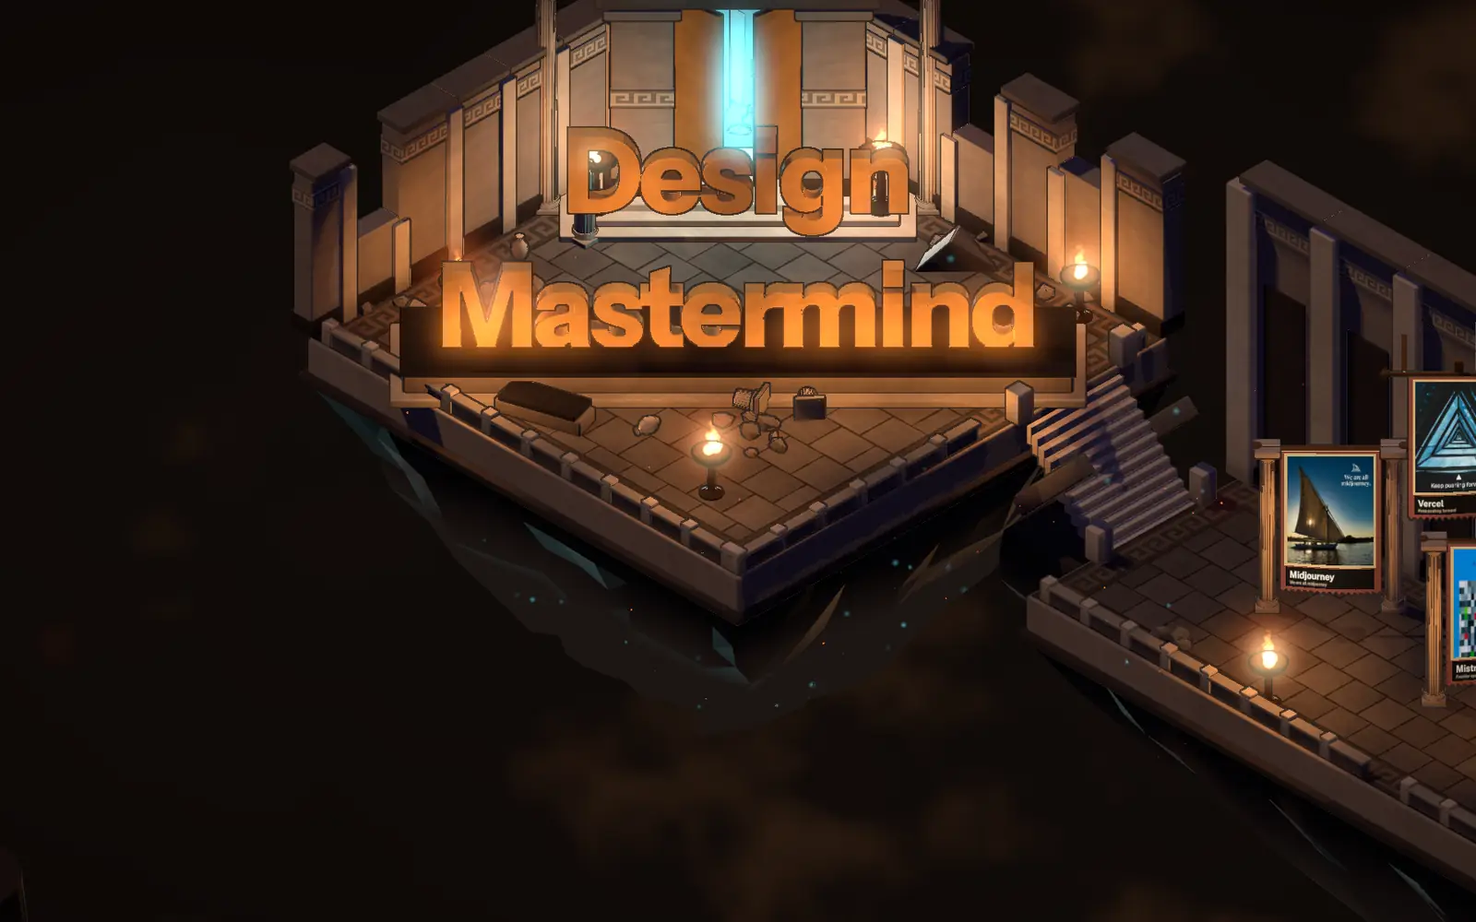
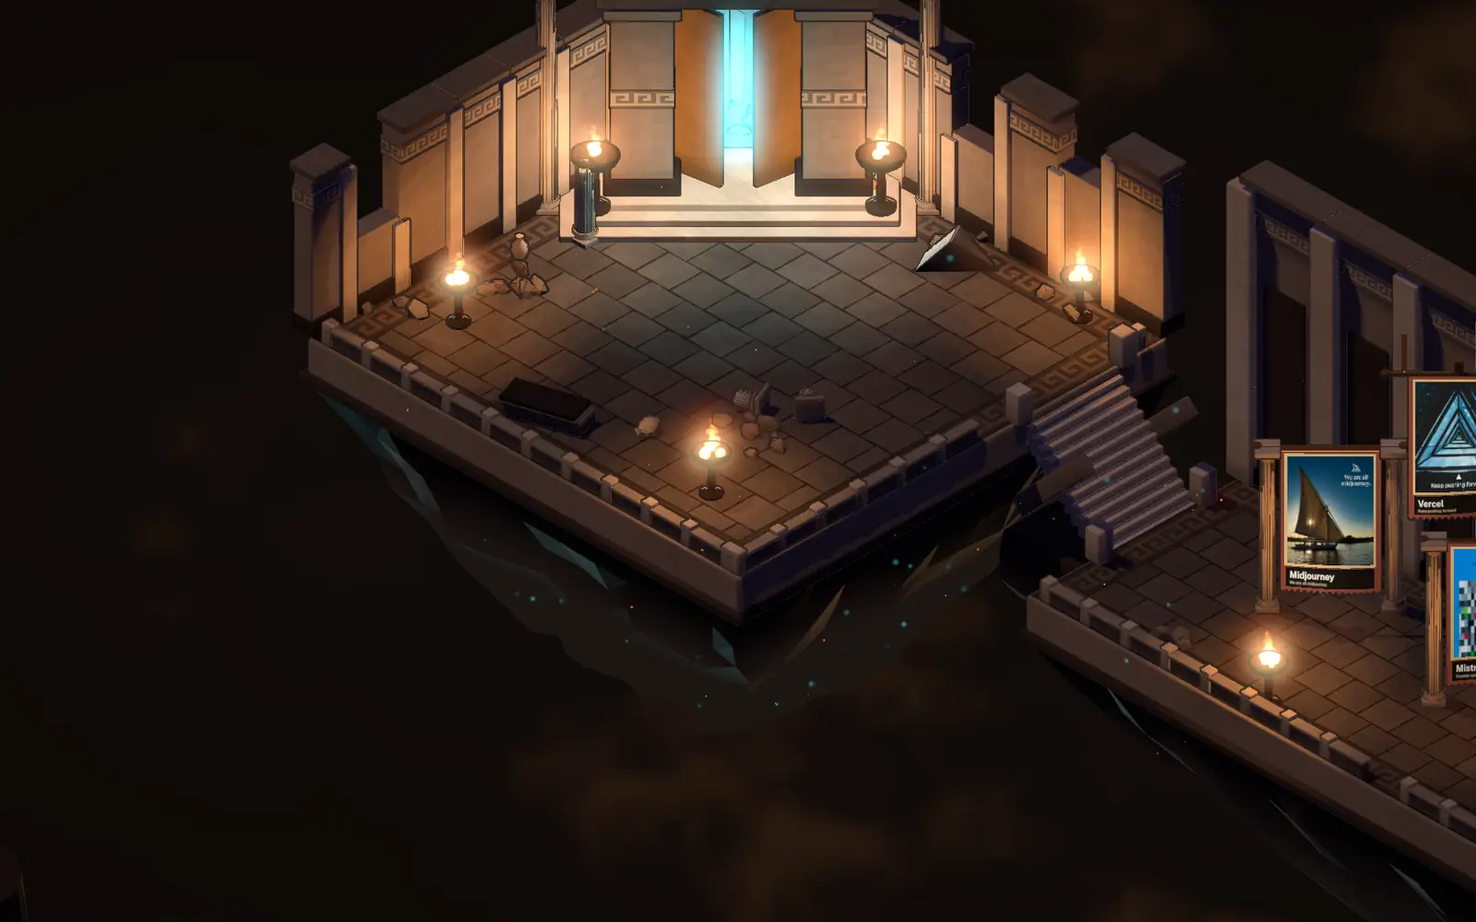
Home: the name at the top in his lettering, lowercase (real h1 text), the line under it, the call in view; in-scene monument and bottom plate removed; site copy, footer, hero and world labels lowercase; posters re-rendered

Changed region(s): [[0.25, 0.062, 0.75, 0.558], [0.9688, 0.713, 1.0, 0.744], [0.75, 0.496, 0.7812, 0.527]]

diff --git a/src/components/ds/Wordmark.tsx b/src/components/ds/Wordmark.tsx
@@ -1,0 +1,26 @@
+// The name, lettered in lowercase: "design mastermind" drawn as outlines from Instrument Sans (SIL OFL 1.1) at weight
+// 700 and width 88, shaped with the font's own kerning, tracked -0.022 em for display, overlaps removed so no contour
+// crosses itself. Font units: 1000 to the em, baseline at 0, y down. Each letter rises in turn.
+
+const ASC = 750;
+const DESC = 250;
+const WORDS: { t: string; w: number; g: string[]; lig: string | null }[] = [{"t": "design", "w": 2729.0, "g": ["M362.0 0.0V-74.0Q348.0 -42.0 318.0 -21.0Q275.0 10.0 216.0 10.0Q157.0 10.0 114.0 -22.0Q71.0 -54.0 48.0 -112.0Q25.0 -170.0 25.0 -251.0Q25.0 -333.0 49.5 -393.5Q74.0 -454.0 118.0 -487.0Q162.0 -520.0 222.0 -520.0Q280.0 -520.0 321.0 -489.0Q345.0 -471.0 358.0 -444.0V-720.0H502.0V0.0ZM268.0 -105.0Q310.0 -105.0 335.5 -143.0Q361.0 -181.0 361.0 -256.0Q361.0 -331.0 335.5 -368.0Q310.0 -405.0 267.0 -405.0Q226.0 -405.0 200.0 -367.0Q174.0 -329.0 174.0 -254.0Q174.0 -179.0 199.5 -142.0Q225.0 -105.0 268.0 -105.0Z", "M795.0 10.0Q722.0 10.0 667.5 -23.5Q613.0 -57.0 583.0 -117.0Q553.0 -177.0 553.0 -256.0Q553.0 -336.0 583.0 -395.5Q613.0 -455.0 667.5 -487.5Q722.0 -520.0 795.0 -520.0Q865.0 -520.0 915.0 -489.5Q965.0 -459.0 992.0 -402.5Q1019.0 -346.0 1019.0 -267.0Q1019.0 -252.0 1018.0 -239.5Q1017.0 -227.0 1015.0 -216.0H698.0Q703.0 -162.0 721.0 -133.0Q746.0 -94.0 797.0 -94.0Q828.0 -94.0 848.0 -109.0Q868.0 -124.0 877.0 -156.0H1008.0Q989.0 -81.0 936.0 -35.5Q883.0 10.0 795.0 10.0ZM700.0 -310.0H883.0Q879.0 -359.0 860.0 -385.0Q836.0 -416.0 794.0 -416.0Q747.0 -416.0 722.0 -377.0Q706.0 -352.0 700.0 -310.0Z", "M1248.0 10.0Q1153.5 10.0 1098.2 -34.5Q1043.0 -79.0 1038.0 -159.0H1160.5Q1164.5 -125.0 1187.5 -107.5Q1210.5 -90.0 1249.5 -90.0Q1282.5 -90.0 1299.0 -101.8Q1315.5 -113.5 1315.5 -135.5Q1315.5 -154.0 1304.5 -165.8Q1293.5 -177.5 1261.0 -190.5L1190.5 -216.5Q1124.0 -238.5 1091.5 -275.8Q1059.0 -313.0 1059.0 -369.0Q1059.0 -438.0 1108.0 -479.0Q1157.0 -520.0 1241.0 -520.0Q1327.5 -520.0 1378.0 -479.5Q1428.5 -439.0 1433.5 -367.0H1311.0Q1308.0 -394.5 1290.5 -407.2Q1273.0 -420.0 1242.5 -420.0Q1214.5 -420.0 1199.2 -409.5Q1184.0 -399.0 1184.0 -379.5Q1184.0 -362.5 1197.0 -350.5Q1210.0 -338.5 1241.5 -327.0L1321.0 -298.0Q1378.5 -279.0 1409.5 -237.8Q1440.5 -196.5 1440.5 -142.5Q1440.5 -71.5 1390.0 -30.8Q1339.5 10.0 1248.0 10.0Z", "M1486.0 0.0V-510.0H1630.0V0.0ZM1482.0 -575.5V-730.0H1634.0V-575.5Z", "M1924.0 215.0Q1829.0 215.0 1769.5 169.5Q1710.0 124.0 1702.0 47.0H1838.0Q1843.0 68.0 1864.5 80.0Q1886.0 92.0 1919.0 92.0Q1966.0 92.0 1990.0 70.0Q2014.0 48.0 2014.0 5.0V-94.0Q2001.0 -61.0 1973.0 -39.0Q1933.0 -8.0 1874.0 -8.0Q1816.0 -8.0 1772.5 -39.5Q1729.0 -71.0 1705.0 -128.0Q1681.0 -185.0 1681.0 -262.0Q1681.0 -341.0 1706.0 -399.0Q1731.0 -457.0 1776.0 -488.5Q1821.0 -520.0 1882.0 -520.0Q1943.0 -520.0 1981.0 -489.0Q2007.0 -466.0 2019.0 -431.0V-510.0H2158.0V-10.0Q2158.0 96.0 2096.0 155.5Q2034.0 215.0 1924.0 215.0ZM1924.0 -121.0Q1966.0 -121.0 1991.5 -157.5Q2017.0 -194.0 2017.0 -265.0Q2017.0 -336.0 1991.5 -372.0Q1966.0 -408.0 1923.0 -408.0Q1882.0 -408.0 1856.0 -371.0Q1830.0 -334.0 1830.0 -263.0Q1830.0 -192.0 1855.5 -156.5Q1881.0 -121.0 1924.0 -121.0Z", "M2240.0 0.0V-510.0H2380.0V-428.0Q2401.0 -466.0 2433.0 -489.0Q2476.0 -520.0 2537.0 -520.0Q2606.0 -520.0 2644.0 -479.5Q2682.0 -439.0 2682.0 -368.0V0.0H2538.0V-338.0Q2538.0 -372.0 2521.5 -388.5Q2505.0 -405.0 2474.0 -405.0Q2447.0 -405.0 2426.5 -392.0Q2406.0 -379.0 2395.0 -357.0Q2384.0 -335.0 2384.0 -306.0V0.0Z"], "lig": null}, {"t": "mastermind", "w": 4905.0, "g": ["M52.0 0.0V-510.0H192.0V-429.0Q213.0 -468.0 244.0 -491.0Q286.0 -520.0 344.0 -520.0Q408.0 -520.0 445.0 -481.0Q465.0 -459.0 474.0 -431.0Q495.0 -468.0 526.0 -491.0Q569.0 -520.0 628.0 -520.0Q694.0 -520.0 731.0 -480.0Q768.0 -440.0 768.0 -372.0V0.0H624.0V-342.0Q624.0 -375.0 609.5 -390.0Q595.0 -405.0 567.0 -405.0Q542.0 -405.0 523.0 -393.5Q504.0 -382.0 493.0 -360.5Q482.0 -339.0 482.0 -310.0V0.0H338.0V-342.0Q338.0 -375.0 323.5 -390.0Q309.0 -405.0 281.0 -405.0Q256.0 -405.0 237.0 -393.5Q218.0 -382.0 207.0 -360.5Q196.0 -339.0 196.0 -310.0V0.0Z", "M1106.0 0.0Q1099.0 -20.0 1097.0 -43.0Q1095.0 -57.0 1094.0 -72.0Q1076.0 -34.0 1046.0 -14.0Q1009.0 10.0 956.0 10.0Q895.0 10.0 857.0 -27.0Q819.0 -64.0 819.0 -126.0Q819.0 -189.0 857.5 -229.0Q896.0 -269.0 976.0 -292.0L1090.0 -328.0V-351.0Q1090.0 -384.0 1075.0 -400.0Q1060.0 -416.0 1030.0 -416.0Q1000.0 -416.0 983.5 -401.5Q967.0 -387.0 963.0 -359.0H831.0Q836.0 -429.0 890.0 -474.5Q944.0 -520.0 1037.0 -520.0Q1131.0 -520.0 1181.0 -474.5Q1231.0 -429.0 1231.0 -345.0V-95.0Q1231.0 -72.0 1234.0 -48.5Q1237.0 -25.0 1245.0 0.0ZM1090.0 -234.0 1028.0 -217.0Q992.0 -206.0 976.0 -188.0Q960.0 -170.0 960.0 -144.0Q960.0 -120.0 974.5 -107.5Q989.0 -95.0 1013.0 -95.0Q1045.0 -95.0 1067.5 -113.0Q1090.0 -131.0 1090.0 -156.0Z", "M1478.0 10.0Q1383.5 10.0 1328.2 -34.5Q1273.0 -79.0 1268.0 -159.0H1390.5Q1394.5 -125.0 1417.5 -107.5Q1440.5 -90.0 1479.5 -90.0Q1512.5 -90.0 1529.0 -101.8Q1545.5 -113.5 1545.5 -135.5Q1545.5 -154.0 1534.5 -165.8Q1523.5 -177.5 1491.0 -190.5L1420.5 -216.5Q1354.0 -238.5 1321.5 -275.8Q1289.0 -313.0 1289.0 -369.0Q1289.0 -438.0 1338.0 -479.0Q1387.0 -520.0 1471.0 -520.0Q1557.5 -520.0 1608.0 -479.5Q1658.5 -439.0 1663.5 -367.0H1541.0Q1538.0 -394.5 1520.5 -407.2Q1503.0 -420.0 1472.5 -420.0Q1444.5 -420.0 1429.2 -409.5Q1414.0 -399.0 1414.0 -379.5Q1414.0 -362.5 1427.0 -350.5Q1440.0 -338.5 1471.5 -327.0L1551.0 -298.0Q1608.5 -279.0 1639.5 -237.8Q1670.5 -196.5 1670.5 -142.5Q1670.5 -71.5 1620.0 -30.8Q1569.5 10.0 1478.0 10.0Z", "M1928.0 10.0Q1840.0 10.0 1797.5 -32.5Q1755.0 -75.0 1755.0 -162.0V-399.0H1675.0V-510.0H1755.0V-617.0L1899.0 -675.0V-510.0H2006.0V-399.0H1899.0V-159.0Q1899.0 -131.0 1915.0 -117.0Q1931.0 -103.0 1964.0 -103.0Q1976.0 -103.0 1987.0 -105.5Q1998.0 -108.0 2008.0 -112.0V-3.0Q1997.0 3.0 1975.5 6.5Q1954.0 10.0 1928.0 10.0Z", "M2259.0 10.0Q2186.0 10.0 2131.5 -23.5Q2077.0 -57.0 2047.0 -117.0Q2017.0 -177.0 2017.0 -256.0Q2017.0 -336.0 2047.0 -395.5Q2077.0 -455.0 2131.5 -487.5Q2186.0 -520.0 2259.0 -520.0Q2329.0 -520.0 2379.0 -489.5Q2429.0 -459.0 2456.0 -402.5Q2483.0 -346.0 2483.0 -267.0Q2483.0 -252.0 2482.0 -239.5Q2481.0 -227.0 2479.0 -216.0H2162.0Q2167.0 -162.0 2185.0 -133.0Q2210.0 -94.0 2261.0 -94.0Q2292.0 -94.0 2312.0 -109.0Q2332.0 -124.0 2341.0 -156.0H2472.0Q2453.0 -81.0 2400.0 -35.5Q2347.0 10.0 2259.0 10.0ZM2164.0 -310.0H2347.0Q2343.0 -359.0 2324.0 -385.0Q2300.0 -416.0 2258.0 -416.0Q2211.0 -416.0 2186.0 -377.0Q2170.0 -352.0 2164.0 -310.0Z", "M2533.0 0.0V-510.0H2673.0V-420.0Q2688.0 -463.0 2713.0 -487.0Q2748.0 -520.0 2799.0 -520.0Q2814.0 -520.0 2823.0 -517.0V-378.0Q2819.0 -380.0 2811.5 -380.5Q2804.0 -381.0 2793.0 -381.0Q2736.0 -381.0 2706.5 -358.0Q2677.0 -335.0 2677.0 -278.0V0.0Z", "M2866.0 0.0V-510.0H3006.0V-429.0Q3027.0 -468.0 3058.0 -491.0Q3100.0 -520.0 3158.0 -520.0Q3222.0 -520.0 3259.0 -481.0Q3279.0 -459.0 3288.0 -431.0Q3309.0 -468.0 3340.0 -491.0Q3383.0 -520.0 3442.0 -520.0Q3508.0 -520.0 3545.0 -480.0Q3582.0 -440.0 3582.0 -372.0V0.0H3438.0V-342.0Q3438.0 -375.0 3423.5 -390.0Q3409.0 -405.0 3381.0 -405.0Q3356.0 -405.0 3337.0 -393.5Q3318.0 -382.0 3307.0 -360.5Q3296.0 -339.0 3296.0 -310.0V0.0H3152.0V-342.0Q3152.0 -375.0 3137.5 -390.0Q3123.0 -405.0 3095.0 -405.0Q3070.0 -405.0 3051.0 -393.5Q3032.0 -382.0 3021.0 -360.5Q3010.0 -339.0 3010.0 -310.0V0.0Z", "M3658.0 0.0V-510.0H3802.0V0.0ZM3654.0 -575.5V-730.0H3806.0V-575.5Z", "M3884.0 0.0V-510.0H4024.0V-428.0Q4045.0 -466.0 4077.0 -489.0Q4120.0 -520.0 4181.0 -520.0Q4250.0 -520.0 4288.0 -479.5Q4326.0 -439.0 4326.0 -368.0V0.0H4182.0V-338.0Q4182.0 -372.0 4165.5 -388.5Q4149.0 -405.0 4118.0 -405.0Q4091.0 -405.0 4070.5 -392.0Q4050.0 -379.0 4039.0 -357.0Q4028.0 -335.0 4028.0 -306.0V0.0Z", "M4713.0 0.0V-74.0Q4699.0 -42.0 4669.0 -21.0Q4626.0 10.0 4567.0 10.0Q4508.0 10.0 4465.0 -22.0Q4422.0 -54.0 4399.0 -112.0Q4376.0 -170.0 4376.0 -251.0Q4376.0 -333.0 4400.5 -393.5Q4425.0 -454.0 4469.0 -487.0Q4513.0 -520.0 4573.0 -520.0Q4631.0 -520.0 4672.0 -489.0Q4696.0 -471.0 4709.0 -444.0V-720.0H4853.0V0.0ZM4619.0 -105.0Q4661.0 -105.0 4686.5 -143.0Q4712.0 -181.0 4712.0 -256.0Q4712.0 -331.0 4686.5 -368.0Q4661.0 -405.0 4618.0 -405.0Q4577.0 -405.0 4551.0 -367.0Q4525.0 -329.0 4525.0 -254.0Q4525.0 -179.0 4550.5 -142.0Q4576.0 -105.0 4619.0 -105.0Z"], "lig": null}];
+
+const MAX = Math.max(...WORDS.map((w) => w.w));
+
+/** The h1: the name as real text for readers and search, drawn in his lettering. */
+export function Wordmark({ label, className }: { label: string; className?: string }) {
+  let n = 0;
+  return (
+    <h1 className={"wm" + (className ? " " + className : "")}>
+      <span className="vh">{label}</span>
+      {WORDS.map((w) => (
+        <svg key={w.t} className="wm-w" viewBox={"0 " + -ASC + " " + w.w + " " + (ASC + DESC)} style={{ "--w": w.w, "--r": w.w / MAX } as React.CSSProperties} aria-hidden="true">
+          {w.g.map((d, j) => (
+            <path key={j} d={d} className="wm-g" style={{ animationDelay: 40 + n++ * 26 + "ms" }} />
+          ))}
+        </svg>
+      ))}
+    </h1>
+  );
+}

diff --git a/src/components/ds/Hero.tsx b/src/components/ds/Hero.tsx
@@ -2,18 +2,19 @@ import Image from "next/image";
 import { BookLink } from "@/components/BookLink";
 import { AdRing } from "@/components/ds/AdRing";
 import { Statement } from "@/components/ds/Statement";
+import { Wordmark } from "@/components/ds/Wordmark";
 import { Sound } from "@/components/world/Sound";
 import { World } from "@/components/world/World";
 import { ADS } from "@/content/ads";
 import { SITE } from "@/content/site";
 
 // The home hero is a world (World): an isometric underworld the page pans across chamber by chamber. The gate court,
-// where the name stands as a gilt monument in his own lettering (world/title), the line and the call beneath it; the hall of ads, where the ads stand
+// with the name in his own lettering (Wordmark) at the top, the line and the call under it; the hall of ads, where the ads stand
 // in the scene and a real list of links (AdRing) serves keyboards, screen readers and the poster fallback; the
 // theatre, whose dark orchestra holds the statement (Statement); the landing on the river, where the signpost points
 // to a call. The HTML stays on top of the scene and works without it.
 
-const SUB = "Hi! I'm Jawad Jalal. I'm 15 and in London, designing and building things.";
+const SUB = "hi! i'm jawad jalal. i'm 15 and in london, designing and building things.";
 const RING_ADS = ADS.filter((a) => a.w * 5 === a.h * 4).slice(0, 24);
 const BY_CAMPAIGN = Object.values(Object.groupBy(RING_ADS, (a) => a.campaign)) as (typeof RING_ADS)[];
 export const RING = Array.from({ length: Math.max(...BY_CAMPAIGN.map((g) => g.length)) }, (_, k) => BY_CAMPAIGN.map((g) => g[k]))
@@ -27,30 +28,30 @@ export function Hero() {
       <World ads={WORLD_ADS} />
       <div className="world-flow">
         <div className="w-gate" data-world-stop="gate">
-          <h1 className="vh">{SITE.headline}</h1>
           <div className="w-say">
+            <Wordmark label={SITE.headline} />
             <p className="hero-say">
               <span className="vh">{SUB}</span>
               {SUB.split(" ").map((w, i) => (
                 <span key={i} aria-hidden="true">
                   <span className="hero-sw">
-                    <span style={{ animationDelay: 1700 + i * 16 + "ms" }}>{w}</span>
+                    <span style={{ animationDelay: 520 + i * 16 + "ms" }}>{w}</span>
                   </span>{" "}
                 </span>
               ))}
             </p>
             <BookLink src="home-hero" className="hero-who" cursor>
               <Image src="/design/jawad-die.webp" alt="" width={697} height={781} sizes="44px" priority />
-              <span>Book a 15 min call ↗</span>
+              <span>book a 15 min call ↗</span>
             </BookLink>
           </div>
         </div>
         <section className="w-hall" data-world-stop="hall" aria-labelledby="hall-h">
           <div className="w-hall-head">
             <h2 id="hall-h" className="w-hall-h">
-              The hall of ads
+              the hall of ads
             </h2>
-            <p className="w-hall-p">{RING.length} ads. Pick one to open it.</p>
+            <p className="w-hall-p">{RING.length} ads. pick one to open it.</p>
           </div>
           <AdRing ads={RING} />
         </section>
@@ -58,15 +59,15 @@ export function Hero() {
         <div className="w-river" data-world-stop="river">
           <div className="w-sign">
             <BookLink src="home-world" className="w-sign-board" cursor>
-              Book a call <span aria-hidden="true">↗</span>
+              book a call <span aria-hidden="true">↗</span>
             </BookLink>
             <p className="w-sign-p">15 minutes, on a day that suits you.</p>
             <Sound />
           </div>
           <div className="bar hero-bar">
-            <span>Jawad Jalal</span>
+            <span>jawad jalal</span>
             <span>{SITE.available}</span>
-            <span>London</span>
+            <span>london</span>
           </div>
         </div>
       </div>

diff --git a/src/components/world/FootStage.tsx b/src/components/world/FootStage.tsx
@@ -13,24 +13,24 @@ import { Stage } from "./kit/Stage";
 // work for keyboards and screen readers, and over the poster (a render of the same chamber) where the scene does not
 // run. ?footer=a|b|c picks the take.
 
-const X = SOCIAL.find((s) => s.label === "X")!.href;
+const X = SOCIAL.find((s) => s.label === "x")!.href;
 const LANES = SITE.lanes.join(", ");
 const CALL = (src: string): Exit => ({ key: "call", label: SITE.cta, sub: SITE.detail, href: "/cal?src=" + src, glyph: "call", main: true });
 
 export const EXITS: Record<FootV, Exit[]> = {
-  a: [CALL("footer-door"), { key: "work", label: "Work", sub: LANES, href: "/work", glyph: "work" }, { key: "x", label: "X", sub: "@" + new URL(X).pathname.slice(1), href: X, glyph: "x" }, { key: "mail", label: "Email", sub: IDENTITY.email, href: MAIL, glyph: "mail" }],
-  b: [CALL("footer-card"), { key: "work", label: "See the work", sub: LANES, href: "/work", glyph: "work" }, { key: "hi", label: "Say hi", sub: IDENTITY.email, href: MAIL, glyph: "mail" }],
+  a: [CALL("footer-door"), { key: "work", label: "work", sub: LANES, href: "/work", glyph: "work" }, { key: "x", label: "x", sub: "@" + new URL(X).pathname.slice(1), href: X, glyph: "x" }, { key: "mail", label: "email", sub: IDENTITY.email, href: MAIL, glyph: "mail" }],
+  b: [CALL("footer-card"), { key: "work", label: "see the work", sub: LANES, href: "/work", glyph: "work" }, { key: "hi", label: "say hi", sub: IDENTITY.email, href: MAIL, glyph: "mail" }],
   c: [
     CALL("footer-die"),
-    { key: "work", label: "Work", sub: LANES, href: "/work", glyph: "work" },
-    { key: "ads", label: "Ads", sub: "Ads for startups", href: "/ads", glyph: "ads" },
-    { key: "3d", label: "3D", sub: "Worlds and objects", href: "/work?f=3d", glyph: "cube" },
-    { key: "roblox", label: "Roblox", sub: "Games I design and build", href: "/work?f=roblox", glyph: "roblox" },
-    { key: "hi", label: "Say hi", sub: IDENTITY.email, href: MAIL, glyph: "mail" },
+    { key: "work", label: "work", sub: LANES, href: "/work", glyph: "work" },
+    { key: "ads", label: "ads", sub: "ads for startups", href: "/ads", glyph: "ads" },
+    { key: "3d", label: "3d", sub: "worlds and objects", href: "/work?f=3d", glyph: "cube" },
+    { key: "roblox", label: "roblox", sub: "games i design and build", href: "/work?f=roblox", glyph: "roblox" },
+    { key: "hi", label: "say hi", sub: IDENTITY.email, href: MAIL, glyph: "mail" },
   ],
 };
 
-const HINT: Record<FootV, string> = { a: "Pick a door.", b: "Pick one.", c: "Roll for it." };
+const HINT: Record<FootV, string> = { a: "pick a door.", b: "pick one.", c: "roll for it." };
 
 export function FootStage() {
   const router = useRouter();
@@ -64,14 +64,14 @@ export function FootStage() {
   return (
     <Stage load={load} poster={{ d: "/world/poster/foot-" + v + "-d.webp", m: "/world/poster/foot-" + v + "-m.webp" }} className="foot-stage" data-v={v}>
       <div className="foot-head">
-        <h2 className="foot-h">Where to next?</h2>
+        <h2 className="foot-h">where to next?</h2>
         <p className="foot-hint">{HINT[v]}</p>
       </div>
-      <nav className="foot-ui" aria-label="Where to next">
-        {v === "c" ? <button type="button" data-exit="die" className="foot-die" aria-label="Roll the die: it lands on a page to visit" /> : null}
+      <nav className="foot-ui" aria-label="where to next">
+        {v === "c" ? <button type="button" data-exit="die" className="foot-die" aria-label="roll the die: it lands on a page to visit" /> : null}
         {v === "c" ? (
           <a data-exit="pick" href={shown.href} className={"foot-pick" + (shown.main ? " main" : "")} {...ext(shown.href)} aria-live="polite">
-            <span className="foot-pick-k">{rolls > 1 ? "The die says" : "Jawad says"}</span>
+            <span className="foot-pick-k">{rolls > 1 ? "the die says" : "jawad says"}</span>
             <span className="foot-pick-l">
               {shown.label} <span aria-hidden="true">↗</span>
             </span>

diff --git a/src/styles/world.css b/src/styles/world.css
@@ -17,13 +17,14 @@
 .world-flow a, .world-flow button, .world-flow .w-ads { pointer-events: auto; }
 .ds:has(.hero.world) .dock[data-hide="true"] { transform: none; }
 
-/* the gate court: the name stands in the scene as a monument (the h1 is for readers); the line and the call sit
-   beneath it on the void's ink, centred like a title screen's prompt */
-.w-gate { display: flex; flex-direction: column; justify-content: flex-end; align-items: center; min-height: calc(100svh - var(--dock)); padding: 0 var(--g) calc(3 * var(--u) + 14px); }
-.w-say { display: grid; justify-items: center; gap: 14px; text-align: center; }
-.w-say .hero-say { animation: fade 500ms 1500ms both; max-width: 27em; padding: 12px 18px 14px; background: #100b09; color: #f8e3c2; font-size: clamp(18px, 1.45vw, 26px); line-height: 1.08; }
+/* the gate court: the name in his lettering at the top, the line under it, then the call; the void's ink falls
+   from the top edge behind them so they never sit on the busy part of the scene */
+.w-gate { display: flex; flex-direction: column; justify-content: flex-start; align-items: center; min-height: calc(100svh - var(--dock)); padding: calc(4 * var(--u) + 16px) var(--g) 0; background: linear-gradient(#100b09 0, rgb(16 11 9 / 0.88) 22%, rgb(16 11 9 / 0) 44%); }
+.w-say { display: grid; justify-items: center; gap: 16px; text-align: center; }
+.w-gate .wm { width: min(44vw, 660px); margin: 0; padding: 0; gap: 1.1vw; color: #f8e3c2; }
+.w-say .hero-say { animation: fade 400ms 360ms both; max-width: 27em; color: #f8e3c2; font-size: clamp(18px, 1.45vw, 26px); line-height: 1.08; }
 .w-say .hero-sw > span { animation-duration: 700ms; }
-.w-say .hero-who { padding: 6px 18px 6px 6px; background: var(--ember); color: #140d09; animation-delay: 2300ms; }
+.w-say .hero-who { padding: 6px 18px 6px 6px; background: var(--ember); color: #140d09; animation-delay: 900ms; }
 .w-say .hero-who img { width: 36px; }
 .w-say .hero-who:hover { background: #f8e3c2; }
 .w-say .hero-who:hover span { color: inherit; }
@@ -82,6 +83,7 @@
 
 @media (max-width: 767px) {
   .w-say { gap: 12px; }
+  .w-gate .wm { width: 76vw; }
   .w-say .hero-say { font-size: 19px; }
   .stmt { min-height: 110svh; }
   .w-sign-board { font-size: 40px; }

diff --git a/src/content/site.ts b/src/content/site.ts
@@ -1,29 +1,29 @@
 // The few words the site has. Everything else is the work.
 
 export const SITE = {
-  headline: "Design Mastermind",
-  available: "Available now",
-  line: "Brands, ads, 3D and Roblox games. Designed by Jawad Jalal in London.",
-  lanes: ["Brands", "ads", "3D", "Roblox"] as const,
-  cta: "Book a call",
+  headline: "design mastermind",
+  available: "available now",
+  line: "brands, ads, 3d and roblox games. designed by jawad jalal in london.",
+  lanes: ["brands", "ads", "3d", "roblox"] as const,
+  cta: "book a call",
   detail: "15 min, video",
   email: "hijawadjalal@gmail.com",
   cv: "/jawad-jalal-cv.pdf",
-  about: "I'm Jawad. I design it, and I build it.",
-  portrait: { src: "/design/jawad-ink.webp", w: 900, h: 900, alt: "Jawad Jalal, drawn in ink" },
+  about: "i'm jawad. i design it, and i build it.",
+  portrait: { src: "/design/jawad-ink.webp", w: 900, h: 900, alt: "jawad jalal, drawn in ink" },
 };
 
 export const NAV = [
-  { label: "Work", href: "/work" },
-  { label: "Sites", href: "/work?c=websites" },
-  { label: "Roblox", href: "/work?c=fracture" },
+  { label: "work", href: "/work" },
+  { label: "sites", href: "/work?c=websites" },
+  { label: "roblox", href: "/work?c=fracture" },
 ] as const;
 
 export const SOCIAL = [
-  { label: "X", href: "https://x.com/jawadmakes" },
-  { label: "LinkedIn", href: "https://www.linkedin.com/in/jawad-jalal-designs" },
-  { label: "Instagram", href: "https://www.instagram.com/j.awadjalal/" },
-  { label: "YouTube", href: "https://www.youtube.com/@jawadmake" },
+  { label: "x", href: "https://x.com/jawadmakes" },
+  { label: "linkedin", href: "https://www.linkedin.com/in/jawad-jalal-designs" },
+  { label: "instagram", href: "https://www.instagram.com/j.awadjalal/" },
+  { label: "youtube", href: "https://www.youtube.com/@jawadmake" },
 ];
 
 /** From Jawad's CV (public/jawad-jalal-cv.pdf), years only. He has left MenuFit and Okara; "8-figure" and Okara's

diff --git a/src/components/world/scene.ts b/src/components/world/scene.ts
@@ -1,6 +1,5 @@
 import * as THREE from "three";
 import { buildHall, type Shot, type Slot } from "./hall";
-import { buildTitle } from "./title";
 import { Batch, DV, EMBER, INK, NL, NOISE, PITCH, Q, RV, SOUL, UP, aim, bag, drop, fx, isoCamera, lightFires, painter, post, setMap, shared, view, type Fire } from "./kit";
 import { COURT, HALL, LAND, SIGN, THEATRE, buildMap, type Mats } from "./map";
 
@@ -31,9 +30,8 @@ export function mount(host: HTMLElement, o: WorldOpts) {
   const B = new Batch();
   const world = buildMap(B, m);
   const hall = buildHall({ B, m, scene, geos: b.geos, mats: b.mats, time: S.time, n: o.ads.length, pitch: PITCH });
-  const title = buildTitle({ B, m, gilt: mk("#e2b56c", { k: "stone", rim: 1.8 }, { emissive: "#5c3612", emissiveIntensity: 0.5 }), scene, geos: b.geos, at: new THREE.Vector3(2.1, COURT.y, 2.1) });
   B.build(scene, b.geos);
-  const fires: Fire[] = [...world.fires, ...hall.fires, ...title.fires];
+  const fires: Fire[] = [...world.fires, ...hall.fires];
   const door = world.door;
 
   // light: a cool sky and warm ground for the shadows, one warm key that casts, and the fires (in the shader)
@@ -255,7 +253,6 @@ export function mount(host: HTMLElement, o: WorldOpts) {
     F.u.ppu.value = (H * dpr) / vh;
     F.u.center.value.copy(cur);
     lightFires(S, fires, cur, lit);
-    title.rise(o.still ? 99 : ign.value);
 
     if (ptr.moved && ptr.cx >= 0) {
       ptr.moved = false;

diff --git a/src/components/ds/Statement.tsx b/src/components/ds/Statement.tsx
@@ -10,9 +10,9 @@ import { useEffect, useRef, type CSSProperties } from "react";
 
 type Tok = string | { w: string; src: string; tail: string };
 const SAY: Tok[] = [
-  "I'm", "15", "and", "in", "London.", "I", "design", { w: "ads", src: "/ads/type/vercel-c-480.webp", tail: "," },
-  { w: "3D", src: "/showcase/coresrent-720.webp", tail: "" }, "and", "Roblox", { w: "games", src: "/work/fracture/mole-king.webp", tail: "," },
-  "and", "I", "build", "what", "I", "design.",
+  "i'm", "15", "and", "in", "london.", "i", "design", { w: "ads", src: "/ads/type/vercel-c-480.webp", tail: "," },
+  { w: "3d", src: "/showcase/coresrent-720.webp", tail: "" }, "and", "roblox", { w: "games", src: "/work/fracture/mole-king.webp", tail: "," },
+  "and", "i", "build", "what", "i", "design.",
 ];
 
 export function Statement() {
@@ -39,7 +39,7 @@ export function Statement() {
     };
   }, []);
   return (
-    <section className="stmt" data-world-stop="theatre" aria-label="About Jawad">
+    <section className="stmt" data-world-stop="theatre" aria-label="about jawad">
       <p ref={ref} className="stmt-p" style={{ "--n": SAY.length } as CSSProperties}>
         {SAY.map((t, i) =>
           typeof t === "string" ? (

diff --git a/src/components/ds/Footer.tsx b/src/components/ds/Footer.tsx
@@ -11,16 +11,16 @@ export function Footer({ src }: { src: string }) {
     <footer className="foot">
       <FootStage />
       <div className="foot-row">
-        <span className="foot-c">©2026 Jawad Jalal</span>
+        <span className="foot-c">©2026 jawad jalal</span>
         <span className="foot-links">
           {SOCIAL.map((s) => (
             <a key={s.label} href={s.href} target="_blank" rel="noopener">
               {s.label}
             </a>
           ))}
-          <a href="/about">About</a>
-          <a href="/blog">Blog</a>
-          <a href={SITE.cv}>CV</a>
+          <a href="/about">about</a>
+          <a href="/blog">blog</a>
+          <a href={SITE.cv}>cv</a>
         </span>
         <span className="foot-reach">
           <MailLink src="footer" className="foot-mail" />

diff --git a/src/components/world/Sound.tsx b/src/components/world/Sound.tsx
@@ -62,7 +62,7 @@ export function Sound() {
         <i />
         <i />
       </span>
-      {on ? "The river is playing" : "Hear the river"}
+      {on ? "the river is playing" : "hear the river"}
     </button>
   );
 }
